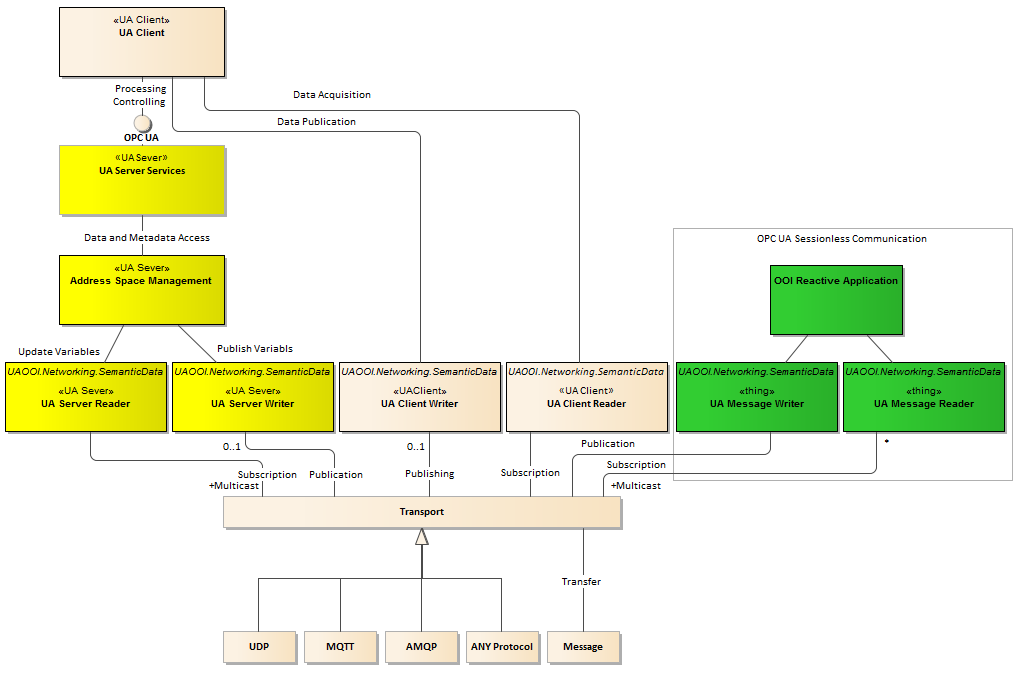
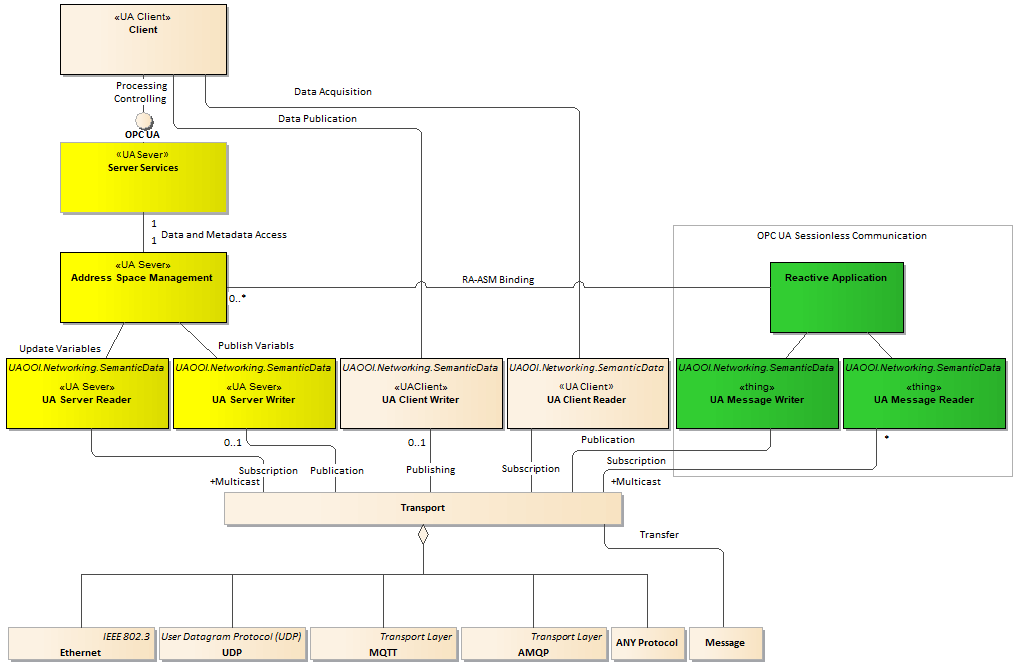
Underlying Transport over Ethernet - prepare documentation #361
- improved graphics related to PubSub stuff
- working on README.PubSubMTF.md
- working on README_EthernetMapping.md
- code no changes

diff --git a/Networking/SemanticData/README.PubSubMTF.md b/Networking/SemanticData/README.PubSubMTF.md
@@ -1,11 +1,11 @@
 # OPC UA PubSub Main Technology Features
 
-# Introduction
+## Introduction
 
 [OPC UA Part 14: PubSub][OPC.UA.PubSub] promotes interoperability of loosely coupled **PubSub Applications**. By design, they often will not even know each other. Their primary relationship is the shared understanding of:
 
-- specific semantics of exchanged data, 
-- the syntax and semantics of messages that include these data, and 
+- specific semantics of exchanged data,
+- the syntax and semantics of messages that include these data, and
 - common underlying messages transport layer.
 
 In general speaking the following two distinct patterns are used to transfer data between communicating parties:
@@ -13,28 +13,27 @@ In general speaking the following two distinct patterns are used to transfer dat
 - Connection-oriented: requires a session that has to be established before any data can be sent between sender and receiver.
 - Connectionless-oriented: the sender may start sending messages  (called packets or datagrams) to the destination without any preceding handshake procedure.
 
-Each has its own advantages and disadvantages. In general, the OPC UA is a session centric communication. The session is established by the **OPC UA Clint** that must connect to the **OPC UA Server** before any data can be exchanged between them. In this Client/Server scenario defined by the Services in Part 4, the data flow is bidirectional over the session. The session entities communicate over a secure channel that is created in the underlying communication layer and relies upon it for secure communication. It enables to log-in using user authentication and authorization. More details you can find in the article: 
+Each has its own advantages and disadvantages. In general, the OPC UA is a session centric communication. The session is established by the **OPC UA Clint** that must connect to the **OPC UA Server** before any data can be exchanged between them. In this Client/Server scenario defined by the Services in Part 4, the data flow is bidirectional over the session. The session entities communicate over a secure channel that is created in the underlying communication layer and relies upon it for secure communication. It enables to log-in using user authentication and authorization. More details you can find in the article:
 
 - [OPC Unified Architecture – Main Technological Features][wordpress.OPCUAMTF]
 
-Using the connection-oriented communication pattern it is difficult or even impossible to gather and process data from mobile things (e.g. smart devices, cigarettes box, drug blister, etc.), which is one of the **Internet of Things** paradigms. More details you can find in [IoT versus SCADA/DCS Data Acquisition Patterns][wordpress.IoTVersus]. 
+Using the connection-oriented communication pattern it is difficult or even impossible to gather and process data from mobile things (e.g. smart devices, cigarettes box, drug blister, etc.), which is one of the **Internet of Things** paradigms. More details you can find in [IoT versus SCADA/DCS Data Acquisition Patterns][wordpress.IoTVersus].
 
 > The [OPC.UA.PubSub][OPC.UA.PubSub] specification offers the connectionless approach as an additional option to session based client-server interoperability and is a consistent part of the OPC UA specifications suit.
- 
 > **As the result it can be recognized as the IoT ready technology.**
 
 The specification claims that the PubSub integrates into the existing OPC UA technology but as result of applying the connectionless communication it is easier to implement low power and low-latency communications on local networks. Additionally, the specification states that PubSub is based on the **[OPC UA Information Model][CAS.OPCUAIMD]** with the aim of seamless integration into **OPC UA Servers** and **OPC UA Clients**. Nevertheless, the PubSub communication does not require such a role dependency, i.e there is no necessity for **Publisher** or **Subscriber** to be either an **OPC UA Server** or an **OPC UA Client** to participate in the communication.
 
-> Note: Unfortunately,**OPC UA Information Model** is not used to promote **PubSub Applications** interoperability. This concept is only employed to define **Security Key Service** and **Configuration Service** models, which have an only indirect impact on the **PubSub Applications** interoperability. 
+> Note: Unfortunately,**OPC UA Information Model** is not used to promote **PubSub Applications** interoperability. This concept is only employed to define **Security Key Service** and **Configuration Service** models, which have an only indirect impact on the **PubSub Applications** interoperability.
 
-# Services
+## Services
 
 **PubSub Applications** exchange messages formatted as the `NetworkMessage` structure using underlying transport layer. As illustrated in the following domain model,  directly or indirectly the specification defines the following actors:
 
-* **Publisher**: pushes the current process data formatted as the `NetworkMessage` structure to an underlying transport layer.
-* **Subscriber**: consumes the process data, which is recovered from the `NetworkMessages` structure polled from the underlying transport layer.
-* **Security Key Management** - provides security keys that can be used to sign and encrypt messages.
-* **Configuration Management** - an external application used to remotely configure **PubSub Application**.
+- **Publisher**: pushes the current process data formatted as the `NetworkMessage` structure to an underlying transport layer.
+- **Subscriber**: consumes the process data, which is recovered from the `NetworkMessages` structure polled from the underlying transport layer.
+- **Security Key Management** - provides security keys that can be used to sign and encrypt messages.
+- **Configuration Management** - an external application used to remotely configure **PubSub Application**.
 
 ![Class Diagram of Concrete Containers and Nodes](../../CommonResources/Media/PubSubMainComponents.png)
 
@@ -46,24 +45,67 @@ To interchange the process data **Publisher** and all associated **Subscribers**
 
 A **Security Key Management** provides keys for message security that can be used by the **Publisher** to sign and encrypt `NetworkMessages` and by the **Subscriber** to verify the signature of and decrypt the `NetworkMessages`. The specification defines OPC UA Information model for **Security Key Services** that enables to implement this class as the **OPC UA Server** or **OPC UA Client**.
 
-**Publishers** and **Subscribers** may be configurable through vendor-specific engineering tools or using the dedicated configuration **OPC UA Information Model** described in this standard. This model allows a standard **OPC UA Client** based configuration tool to configure a **PubSub Application** connecting to the embedded **OPC UA Server**. Using remote **Configuration Tool** over an **OPC UA Session** does not determine how dynamic the configuration can be. 
+**Publishers** and **Subscribers** may be configurable through vendor-specific engineering tools or using the dedicated configuration **OPC UA Information Model** described in this standard. This model allows a standard **OPC UA Client** based configuration tool to configure a **PubSub Application** connecting to the embedded **OPC UA Server**. Using remote **Configuration Tool** over an **OPC UA Session** does not determine how dynamic the configuration can be.
 
 > It is worth stressing that the configuration model doesn't provide any definition dedicated to being used for the data bindings configuration.
 
-# Interoperability
+## Interoperability
+
+## Preface
 
 The **PubSub Applications** are decoupled by exchanging messages over an underlying transport layer. It is worth stressing that by design the **PubSub Application** don't expose any API that can be used to transfer upper layer data over the network, i.e. it is not communication layer. It means that these applications must produce and/or consume the process data.
+
+## Transport protocol mapping
 
 **PubSub Applications** interoperability doesn't depend on any functionality provided by the underlying transport layer. According to the specification, the **Subscriber** and **Publisher** can be interconnected using any transparent messages transport infrastructure. It defines two groups of solutions:
 
 - A broker-less: the transport layer is the network infrastructure that is able to route datagram-based messages, e.g [UDP][RFC.UDP], [AMQP][AMQP], ETHERNET.
 - A broker-based: the core component of the transport layer is a message broker, e.g. [AMQP][AMQP] or [MQTT][MQTT].
 
-In both cases, one-to-many relationship between **Publisher** and **Subscriber** can be obtained. For UDP multicast messages distribution may be applied to send Internet Protocol (IP) datagrams to a group of interested receivers in a single transmission. For the broker-based transport, all messages are published to specific queues (e.g. topics, nodes) that the broker exposes and **Subscribers** can listen to these queues.
+In both cases, the one-to-many relationship between **Publisher** and **Subscriber** can be obtained. For UDP multicast messages distribution may be applied to send Internet Protocol (IP) datagrams to a group of interested receivers in a single transmission. For the broker-based transport, all messages are published to specific queues (e.g. topics, nodes) that the broker exposes and **Subscribers** can listen to these queues.
 
-The specification doesn't define any subscription management services, namely, it offers a communication paradigm called unsolicited notification. When unsolicited notification occurs, a client receives a message that it has never requested. Using broker-less approach the **Subscriber** must use a filtering mechanism to process only messages it is interested in. Applying broker-based approach means that some functionality related to communication reliability, data selection, and distribution is delegated to it.
+Additionally, the specification lists the following protocols that can be selected as the transport for massages and their possible combinations with message mappings:
 
-The syntax and semantics of the messages exchanged between the **PubSub Application** are described as the `NetworkMessage` structure. Each `NetworkMessage` includes header information (e.g. identification and security data) and one or more `DataSetMessages`. The `DataSetMessages` may be signed and encrypted in accordance with the configured message security. Each `DataSetMessage` contains process data. 
+- OPC UA UDP
+- OPC UA Ethernet
+- AMQP
+- MQTT
+
+Because the specification doesn't define normative references for `OPC UA UDP` and `OPC UA Ethernet` in section *References* they are inferred from the context. Based on this mapping in the figure below the architecture of protocol stack is determined as the domain diagram.  The diagram has been worked out on the best effort approach.
+
+![Transport protocols architecture](../../CommonResources/Media/Networking/StackDomainModel.png)
+
+Following the specification, the transport protocol mapping is modeled appropriately as the four top-level classes called `Ethernet`, `UDP`, `MQTT`, `AMQP`. They may be recognized as the underlying API of the protocols stack and are aggregated into one common communication layer used to exchange the messages over the network (section ...).
+
+Here it must be stressed that the mentioned in the section title term `transport layer` has nothing in common with the Open System Interconnection Reference Model (OSI model) Transport Layer. Referring to the OSI model the  `MQTT` and `AMQP` protocols should be recognized as the Application Layer protocols. The Application Layer is the one at the top of the model. Because the PubSub specification defines also the protocol on this layer some functionality is redundant in this case. For traversing the network the messages the PubSub application uses both protocols as a transparent communication service. Applying the broker-based approach also means that some functionality related to communication reliability, data selection, and distribution is delegated to them. Details related to MQTT mapping are covered by the section ..... Details related to AMQP mapping are covered by the section .......
+
+The OSI Presentation Layer represents the services that are responsible for the translation of the application data encoding to network encoding, and translation back from the network encoding to application encoding. In other words, the layer “presents” data for the application or the network. This functionality is embedded in the definition of the PubSub message syntax rules. This syntax rules (Part 6) are common for the OPC UA suit as one whole. For the sake of simplicity, the `OSI Presentation Layer` is not present in the diagram.
+
+In the published/subscriber communication pattern the `OSI Session Layer` is empty, so it is ignored in the domain model presented in figure above.
+
+The specification doesn't define particular mapping rules referring to protocol stack used by the `AMQP` and `MQTT`, so an abstract `OSI Transport Layer` is used as the underlying communication layer for them. In this case, all requirements against relevant specifications apply.
+
+on the other hand, according to the mapping rules the User Datagram Protocol (UDP) protocol is pointed out by the PubSub specification as the only concrete implementation of the `OSI Transport Layer`. In this case, the protocol can be recognized as the base for the mapping rules `UDP` stated by the specification and a part of the abstract `OSI Transport Layer`.
+
+The specification doesn't define any subscription management services, namely, it offers a communication paradigm called unsolicited notification. When unsolicited notification occurs, a client receives a message that it has never requested. Using broker-less approach the **Subscriber** must use a filtering mechanism to process only messages it is interested in.
+
+In case the broker-less approach over the UDP is selected for communication some multicast functionality must be offered by the protocol stack. UDP is one-to-one connectionless protocol and cannot be used for this purpose. The specification recommends using `Internet Protocol (IP)` multicast option to fulfill this requirement. Formally there are no additional mapping rules defined for this protocol, but as a result, this concrete protocol has been selected as the base for `UDP` protocol and is embedded part of the `OSI Protocol Layer`.
+
+This approach has some drawbacks. Using IP multicast special equipment and dedicated configuration of that equipment are required.  Both make this solution applicable only for the local network segments in the administration realm of the protocol users. It is hard to imagine the usage of this communication option in case of enterprise scoped networks. Detailed description of the `UDP` mapping rules are covered by the section.....
+
+I guess that the removal of the UDP and IP protocols from the communication stack is recognized by the specification authors as a mean to improve the performance of the communication. As a result `Ethernet` mapping rules have been defined (see figure above). The ETHERNET term is recognized as a keyword with a very broad meaning. The specification doesn't define normative reference in this respect. In the figure above it is presented as a concrete implementation compliant with the IEEE 802.3 standard suit. In cas the UDP protocol is removed form the stack to replace the application selection functionality offered by the socket concept the registered B62C EtherType is recommended.
+
+Further communication performance improvement and extension of the functionality may be obtained by applying for example implementation of the :
+
+- Time-Sensitive Network (TSN)
+- Virtual Local Network (VLAN)
+- Quality of Service QoS)
+
+They are only partially mentioned in the specification but should be recognized as the embedded part of the 802.3 implementations. In any case, these solutions are invisible for the implementation of the communication layers above 802.3, so they are invisible for upper layers and doesn't have any impact on the PubSub interoperability. It is also worth stressing that these solutions can be used in spite of the above communication stack selection. In other words, the mentioned solutions are not dedicated to OPC UA at all.
+
+## Message Mapping
+
+The syntax and semantics of the messages exchanged between the **PubSub Application** are described as the `NetworkMessage` structure. Each `NetworkMessage` includes header information (e.g. identification and security data) and one or more `DataSetMessages`. The `DataSetMessages` may be signed and encrypted in accordance with the configured message security. Each `DataSetMessage` contains process data.
 
 The `NetworkMessage` structure can be serialized using the following encoding:
 
@@ -81,20 +123,20 @@ Using UADP message mapping the following encodings may be supported:
 This specification lists the following protocols that have been selected to be used as the underlying transport layer:
 
 - [Advanced Message Queuing Protocol][AMQP]
-- [Message Queuing Telemetry Transport ][MQTT]
+- [Message Queuing Telemetry Transport][MQTT]
 - [User Datagram Protocol][RFC.UDP]
 - Ethernet defined by IEEE 802.3
 
-# Normative References
+## Normative References
 
 The following documents, in whole or in part, are normatively referenced in this document and are indispensable for its application.
 
 - [OPC Unified Architecture Specification Part 14: PubSub Release 1.04 February 06, 2018][OPC.UA.PubSub]
 
-# Glossary
+## Glossary
 
 - Publisher-subscriber communication pattern
- 
+
 > Publish-subscribe is a messages distribution scenario where senders of messages, called publishers, do not send them directly to specific receivers, called subscribers, but instead categorize published messages into classes without knowledge of which subscribers if any, there may be. Similarly, subscribers express interest in one or more classes and only receive messages that are of interest, without knowledge of which publishers, if any, there are. In the publish-subscribe model, subscribers typically receive only a subset of the total messages published. The process of selecting messages for reception and processing is called filtering. There are two common forms of filtering: topic-based and content-based.
 
 - Connection-oriented communication pattern
@@ -102,11 +144,10 @@ The following documents, in whole or in part, are normatively referenced in this
 > Data exchange scenario that requires a session connection be established before any data can be sent. Connection-oriented services set up virtual links between applications through a network. The session is responsible to retain a state information or status about each communicating partner for the duration of multiple requests. An OPC UA Client/Server connection is a stateful connection because both systems maintain information about the session itself during its life.
 
 - Connectionless-oriented communication pattern
- 
+
 > Messages exchange scenario that does not require a session connection between sender and receiver. The sender simply starts sending packets (called datagrams) to the destination. Neither system must maintain state information for the systems that they send messages to or receive messages from.
 
-
-# References
+## References
 
 - [OPC Unified Architecture][wordpress.opc-ua]
 
@@ -125,7 +166,7 @@ The following documents, in whole or in part, are normatively referenced in this
 [wordpress.OPCUAMTF]: https://mpostol.wordpress.com/2013/08/04/opc-unified-architecture-main-technological-features/
 
 - [OPC UA Information Model Deployment][CAS.OPCUAIMD]
- 
+
 [CAS.OPCUAIMD]: http://www.commsvr.com/InternetDSL/commserver/P_DowloadCenter/P_Publications/20140301E_DeploymentInformationModel.pdf
 
 - [RFC 768: User Datagram ProtocolJ, August 1980][RFC.UDP]
@@ -161,5 +202,5 @@ The following documents, in whole or in part, are normatively referenced in this
 [OOI.Networking.UDPMessageHandler]:https://github.com/mpostol/OPC-UA-OOI/tree/master/Networking/UDPMessageHandler
 
 - [OOI.Networking.ReferenceApplication][OOI.Networking.ReferenceApplication]
- 
+
 [OOI.Networking.ReferenceApplication]:https://github.com/mpostol/OPC-UA-OOI/tree/master/Networking/ReferenceApplication

diff --git a/Networking/SemanticData/README_EthernetMapping.md b/Networking/SemanticData/README_EthernetMapping.md
@@ -29,6 +29,8 @@ The following documents, in whole or in part, are normatively referenced in this
 
 #### Time Sensitive Networks (TSN)
 
+>TODO - describe standard and impact on the PuSub implementation
+
 #### VLAN
 
 A VLAN represents a broadcast domain. VLANs are identified by a VLAN ID (a number between 0 – 4095). 
@@ -80,6 +82,13 @@ The format of a MAC address is six groups of hexadecimal digits, separated by hy
 > NOTE: the above mentioned addressing parameters are not mapped to any of the PubSub `UADP NetworkMessage` parameters. In other word there is not semantic relationship with the OPC UA and, therefore, the parameters must be provided separately by the application configuration.
 
 The messages (`UADP NetworkMessage`) are transparently transported as the payload of the Ethernet frame. For OPC UA Ethernet the MaxNetworkMessageSize plus additional headers shall be limited to an Ethernet frame size of 1522 Byte
+
+## Conclusion
+
+- OPC UA and Ethernet are unrelated, i.e. there is no semantic relationship between both
+- OPC UA is recognized as the Internet technology, but this mapping makes sense only for broadcast domain (local network segment)
+- OPC UA PubSub over the TSN is misleading term because each protocol can be transported over this particular Ethernet dialect
+- Time sensitive doesn’t mean real time – it means no jitter (improves deterministic communication)
 
 ## See also
 
